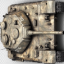
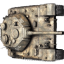
+

diff --git a/3/units.py b/3/units.py
@@ -1,0 +1,217 @@
+import world
+import texture as skin
+from hitbox import Hitbox
+from tkinter import NW
+from random import randint
+
+class Unit:
+    def __init__(self, canvas, x, y, speed, padding, bot, default_image):
+        self._canvas = canvas
+        self._x = x
+        self._y = y
+        self._vx = 0
+        self._vy = 0
+        self._hp=100
+        self._dx = 0
+        self._dy = 0
+        self._speed = speed
+        self._bot = bot
+        self._hitbox = Hitbox(x, y, world.BLOCK_SIZE, world.BLOCK_SIZE,padding=padding)
+        self._default_image = default_image
+        self._left_image = default_image
+        self._right_image = default_image
+        self._forward_image = default_image
+        self._backward_image = default_image
+
+        self._create()
+
+    def _create(self):
+        self._id = self._canvas.create_image(self._x, self._y, image=skin.get(self._default_image), anchor=NW)
+
+    def __del__(self):
+        try:
+            self._canvas.delete(self._id)
+        except Exception:
+            pass
+
+    def forward(self):
+        self._vx = 0
+        self._vy = -1
+        self._canvas.itemconfig(self._id, image=skin.get(self._forward_image))
+    def backward(self):
+        self._vx = 0
+        self._vy = 1
+        self._canvas.itemconfig(self._id, image=skin.get(self._backward_image))
+    def left(self):
+        self._vx = -1
+        self._vy = 0
+        self._canvas.itemconfig(self._id, image=skin.get(self._left_image))
+    def right(self):
+        self._vx = 1
+        self._vy = 0
+        self._canvas.itemconfig(self._id, image=skin.get(self._right_image))
+    def stop(self):
+        self._vx = 0
+        self._vy = 0
+
+    def update(self):
+        if self._bot:
+            self._AI()
+        self._dx = self._vx * self._speed
+        self._dy = self._vy * self._speed
+        self._x += self._dx
+        self._y += self._dy
+        self._update_hitbox()
+        self._check_map_collision()
+        self._repaint()
+
+    def _AI(self):
+        pass
+
+    def _update_hitbox(self):
+        self._hitbox.moveto(self._x, self._y)
+
+    def _check_map_collision(self):
+        details= {}
+        result=self._hitbox.check_map_collision(details)
+        if result:
+            self._on_map_collision(details)
+        else:
+            self._no_map_collision()
+
+    def _on_map_collision(self):
+        pass
+
+    def _no_map_collision(self, details):
+        pass
+
+    def _repaint(self):
+        screen_x=world.get_screen_x(self._x)
+        screen_y=world.get_screen_y(self._y)
+        self._canvas.moveto(self._id, x=screen_x, y=screen_y)
+
+    def _undo_move(self):
+        if self._dx == 0 and self._dy == 0:
+            return
+        self._x -= self._dx
+        self._y -= self._dy
+        self._update_hitbox()
+        self._repaint()
+        self._dx = 0
+        self._dy = 0
+
+    def intersects(self, other_unit):
+        value = self._hitbox.intersects(other_unit._hitbox)
+        if value:
+            self._on_intersects(other_unit)
+        return value
+
+    def _on_intersects(self, other_unit):
+        self._undo_move()
+
+    def _change_orientation(self):
+        rand=randint(0,3)
+        if rand==0:
+            self.left()
+        if rand==1:
+            self.forward()
+        if rand==2:
+            self.right()
+        if rand==3:
+            self.backward()
+
+    def get_hp(self):
+        return self._hp
+    def get_speed(self):
+        return self._speed
+    def get_x(self):
+        return self._x
+    def get_y(self):
+        return self._y
+    def get_vx(self):
+        return self._vx
+    def get_vy(self):
+        return self._vy
+    def get_size(self):
+        return world.BLOCK_SIZE
+    def is_bot(self):
+        return self._bot
+
+class Tank(Unit):
+    def __init__(self, canvas, row, col, bot=True):
+        super().__init__(canvas, col*world.BLOCK_SIZE, row*world.BLOCK_SIZE, 2, 8, bot, "tank_up")
+        if bot:
+            self._forward_image='tank_up'
+            self._backward_image='tank_down'
+            self._left_image='tank_left'
+            self._right_image='tank_right'
+        else:
+            self._forward_image='tank_up_player'
+            self._backward_image='tank_down_player'
+            self._left_image='tank_left_player'
+            self._right_image='tank_right_player'
+
+        self.forward()
+        self._ammo=80
+        self._usual_speed = self._speed
+        self._water_speed = self._speed//2
+        self._target=None
+
+    def set_target(self, target):
+        self._target = target
+
+    def _AI_goto_target(self):
+        if randint(1,2)==1:
+            if self._target.get_x() < self.get_x():
+                self.left()
+            else:
+                self.right()
+        else:
+            if self._target.get_y() < self.get_y():
+                self.forward()
+            else:
+                self.backward()
+
+    def _AI(self):
+        if randint(1,30)==1:
+            if randint(1,10)<9 and self._target is not None:
+                self._AI_goto_target()
+            else:
+                self._change_orientation()
+
+    def fire(self):
+        if self._ammo > 0:
+            self._ammo -= 1
+
+    def _take_ammo(self):
+        self._ammo += 10
+        if self._ammo>100:
+            self._ammo=100
+
+    def get_ammo(self):
+        return self._ammo
+
+    def _set_usual_speed(self):
+        self._speed = self._usual_speed
+
+    def set_water_speed(self):
+        self._speed = self._water_speed
+
+    def _on_map_collision(self, details):
+        if world.WATER in details and len(details) == 1:
+            self._set_water_speed()
+        elif world.MISSLE in details:
+            pos = details[world.MISSLE]
+            if world.take(pos['row'], pos['col']) != world.AIR:
+                self._take_ammo()
+        else:
+            self._undo_move()
+            if self._bot:
+                self._change_orientation()
+    def _no_map_collision(self):
+        self._set_usual_speed()
+
+    def _on_intersects(self, other_unit):
+        super()._on_intersects(other_unit)
+        if self._bot:
+            self._change_orientation()

diff --git a/3/tanks_collection.py b/3/tanks_collection.py
@@ -1,6 +1,7 @@
 from random import randint
-from tank import Tank
+#from tank import Tank
 import world
+from units import Tank
 
 _tanks = []
 _canvas = None
@@ -9,11 +10,13 @@ def initialize(canv):
     global _canvas
     _canvas = canv
 
-    spawn(False)
-    for i in range(2):
-        spawn(True).set_target(get_player())
-
-    print(_tanks)
+    #spawn(False)
+    #for i in range(2):
+        #spawn(True).set_target(get_player())
+    #print(_tanks)
+    player=spawn(False)
+    enemy=spawn(True).set_target(player)
+    spawn(True).set_target(player)
 
 def get_player():
     return _tanks[0]
@@ -27,7 +30,7 @@ def check_collision(tank):
     for other_tank in _tanks:
         if tank == other_tank:
             continue
-        if tank.inersects(other_tank):
+        if tank.intersects(other_tank):
             return True
     return False
 
@@ -42,7 +45,7 @@ def spawn(is_bot=True):
         if world.get_block(row, col) != world.GROUND:
             continue
 
-        t = Tank(_canvas, x = col*world.BLOCK_SIZE, y = row*world.BLOCK_SIZE, speed=2, bot=is_bot)
+        t = Tank(_canvas, row, col,bot=is_bot)
         if not check_collision(t):
             _tanks.append(t)
             return t

diff --git a/3/main.py b/3/main.py
@@ -29,7 +29,7 @@ def update():
 def key_press(event):
     player=tanks_collection.get_player()
     if event.keycode == KEY_W:
-        player.forvard()
+        player.forward()
     if event.keycode == KEY_S:
         player.backward()
     if event.keycode == KEY_A:
@@ -57,6 +57,11 @@ def load_textures():
                  '../img/tankT34_left.png')
     texture.load("tank_right",
                  '../img/tankT34_right.png')
+
+    texture.load('tank_down_player', '../img/tank_down_player.png')
+    texture.load("tank_up_player", '../img/tank_up_player.png')
+    texture.load("tank_left_player", '../img/tank_left_player.png')
+    texture.load("tank_right_player", '../img/tank_right_player.png')
 
     texture.load(world.BRICK, "../img/brick.png")
     texture.load(world.WATER, "../img/water.png")
